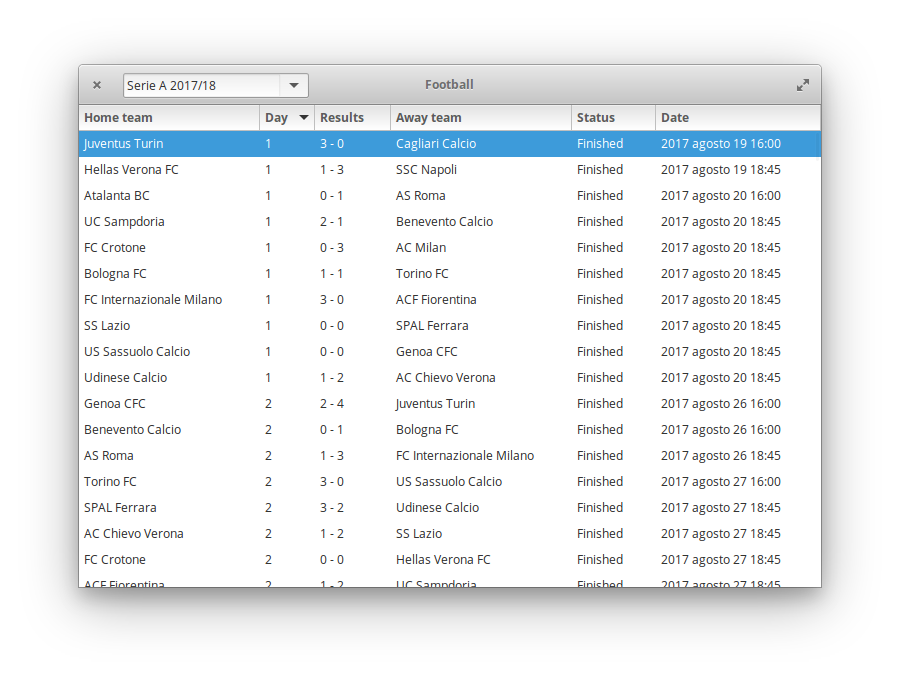
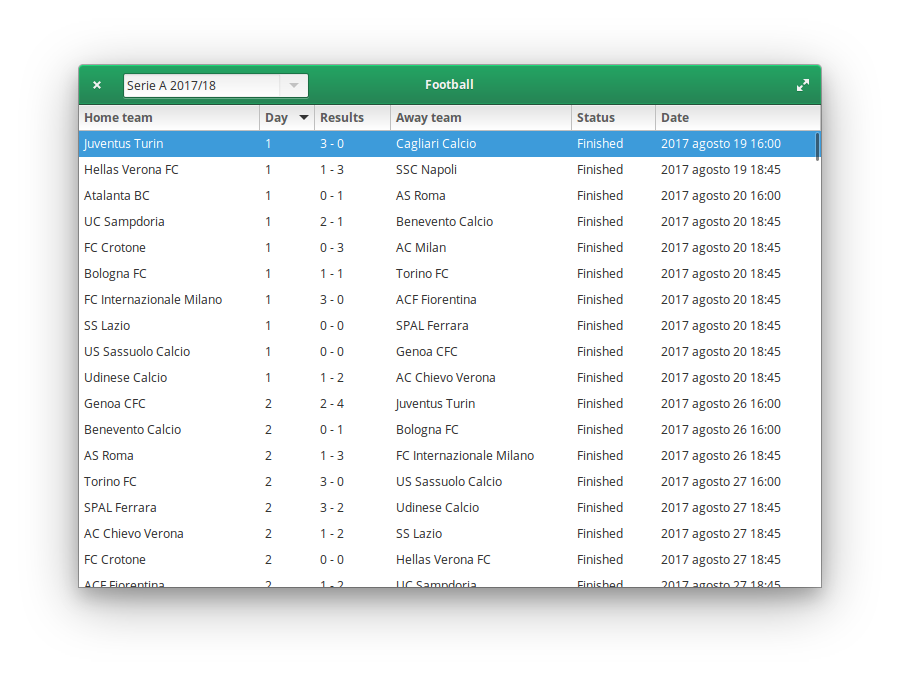
Changed headerbar color

Changed region(s): [[0.0622, 0.0926, 0.9333, 0.1544], [0.9022, 0.1853, 0.9333, 0.2471]]

diff --git a/football/main.py b/football/main.py
@@ -28,6 +28,11 @@ from gi.repository import Gtk, Gdk
 
 API_KEY = "cb3a6fe9d9284af79a13661ff6191ea6"
 headers = {'X-Auth-Token':API_KEY, 'X-Response-Control': 'minified'}
+stylesheet = """
+    @define-color colorPrimary #249C5F;
+    @define-color textColorPrimary #f2f2f2;
+    @define-color textColorPrimaryShadow #197949;
+""";
 
 class Football(Gtk.Window):
 
@@ -145,16 +150,14 @@ class Football(Gtk.Window):
             entry = combo.get_child()
             print("Entered: %s" % entry.get_text())
 
+style_provider = Gtk.CssProvider()
+style_provider.load_from_data(bytes(stylesheet.encode()))
+Gtk.StyleContext.add_provider_for_screen(
+    Gdk.Screen.get_default(), style_provider,
+    Gtk.STYLE_PROVIDER_PRIORITY_APPLICATION
+)
 win = Football()
 win.set_default_size(900, 680) 
 win.connect("delete-event", Gtk.main_quit)
-'''style_provider = Gtk.CssProvider()
-style_provider.load_from_path("./style.css")
- 
-Gtk.StyleContext.add_provider_for_screen(
-    Gdk.Screen.get_default(),
-    style_provider,
-    Gtk.STYLE_PROVIDER_PRIORITY_APPLICATION
-)'''
 win.show_all()
 Gtk.main()
